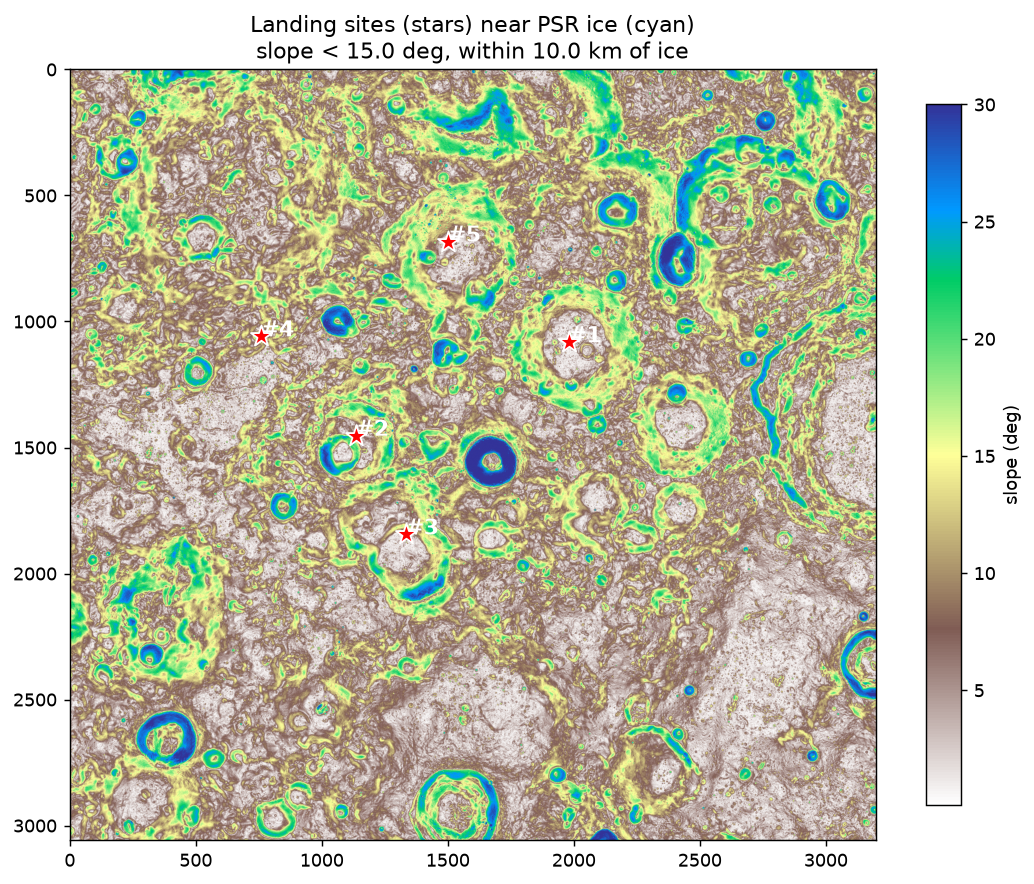
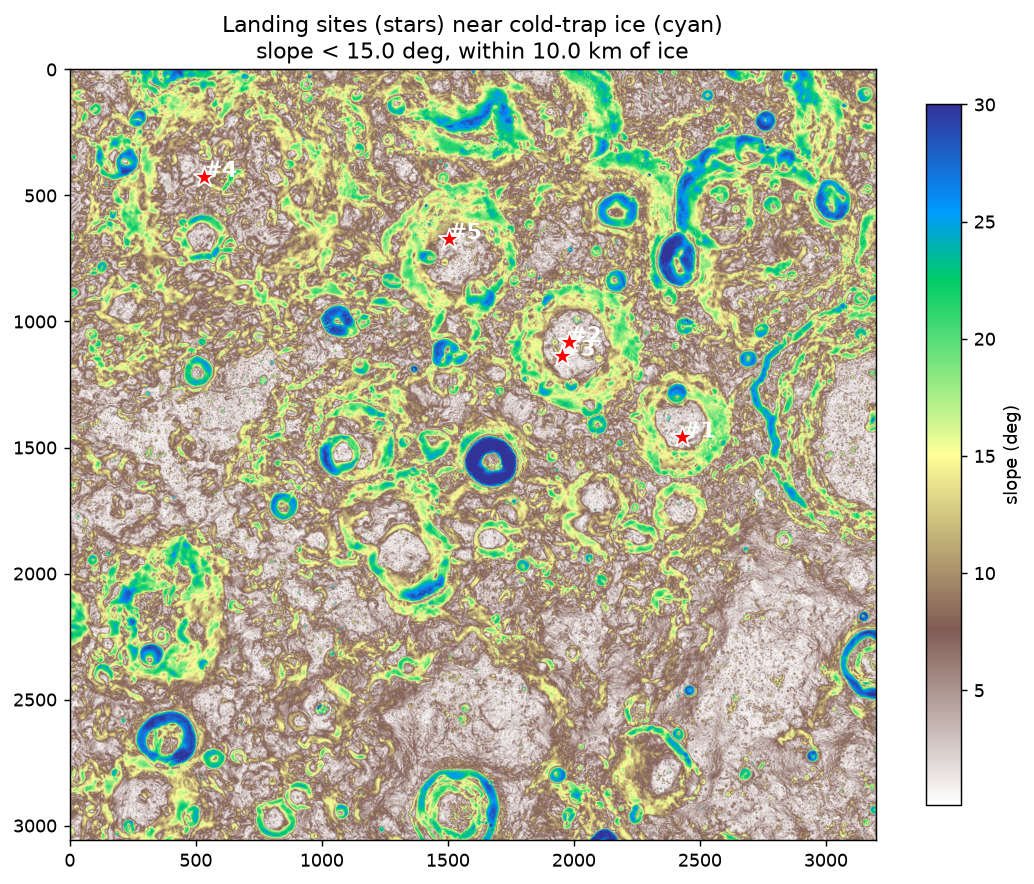
Landing v2: sites cluster near validated ice craters (Site 1 near F3, Sites 2-3 near S1)

diff --git a/src/landing_site.py b/src/landing_site.py
@@ -1,16 +1,7 @@
 # ============================================================
-# LunaVault — Landing Site Selection (Official Step 4)
-# MEMORY-SAFE version: works on a downsampled grid to avoid crashes.
-# ============================================================
-# Finds safe, flat terrain near PSR-restricted ice deposits.
-# All inputs reprojected onto the (downsampled) ice grid so they align.
-# Inputs:
-#   data/processed/ice_in_psr.tif        (cold-trap ice pixels)
-#   data/raw/dtm/LDEM_80S_80MPP_ADJ.TIF  (elevation, Moon-2015)
-#   data/raw/dtm/LDSM_80S_80MPP_ADJ.TIF  (slope deg, Moon-2015)
-# Outputs:
-#   outputs/figures/06_landing_sites.png
-#   prints top 5 candidate landing sites
+# LunaVault — Landing Site Selection (Official Step 4) v2
+# Uses corrected CPR-in-PSR ice mask (validated vs paper craters).
+# MEMORY-SAFE: works on a downsampled grid to avoid crashes.
 # ============================================================
 import os
 import numpy as np
@@ -29,15 +20,15 @@ MAX_SLOPE_DEG   = 15.0    # lander tip-over limit
 MAX_ICE_DIST_KM = 10.0    # rover lands within 10 km of ice
 DOWNSAMPLE      = 4       # process at 4x coarser res to save memory
 
+ICE_MASK = "data/processed/ice_cpr_psr.tif"   # corrected detection
+
 # ============================================================
 # 1. Load ice mask DOWNSAMPLED (defines target grid)
 # ============================================================
-with rasterio.open("data/processed/ice_in_psr.tif") as src:
+with rasterio.open(ICE_MASK) as src:
     H0, W0 = src.height, src.width
     H, W = H0 // DOWNSAMPLE, W0 // DOWNSAMPLE
-    # read at reduced resolution
-    # build the downsampled transform
-    ice = src.read(1, out_shape=(H, W), resampling=RS.nearest)  # keep ice presence
+    ice = src.read(1, out_shape=(H, W), resampling=RS.nearest)
     ice_transform = src.transform * src.transform.scale(W0 / W, H0 / H)
     ice_crs = src.crs
     px_m = abs(ice_transform.a)
@@ -50,8 +41,9 @@ print(f"Ice pixels (downsampled): {int(ice_present.sum())}")
 # 2. Reproject DEM + slope onto the downsampled ice grid
 # ============================================================
 def reproject_to_grid(path):
+    """Reproject the raster at `path` onto the downsampled ice grid."""
     out = np.full((H, W), np.nan, dtype=np.float32)
-    with rasterio.open(path) as src:
+    with rasterio.open(path) as src:          # FIXED: opens the given path
         reproject(
             source=rasterio.band(src, 1),
             destination=out,
@@ -118,13 +110,13 @@ for i in range(5):
     if work[r, c] <= 0:
         break
     lat, lon = pixel_to_latlon(r, c)
-    sites.append((i+1, r, c, lat, lon, float(score[r,c]),
-                  float(slope[r,c]), float(dist_km[r,c])))
+    sites.append((i+1, r, c, lat, lon, float(score[r, c]),
+                  float(slope[r, c]), float(dist_km[r, c])))
     print(f"  Site {i+1}: lat {lat:.2f}, lon {lon:.2f} | "
           f"score {score[r,c]:.3f} | slope {slope[r,c]:.1f} deg | "
           f"{dist_km[r,c]:.1f} km to ice")
     rad = 15
-    work[max(0,r-rad):r+rad, max(0,c-rad):c+rad] = 0
+    work[max(0, r-rad):r+rad, max(0, c-rad):c+rad] = 0
 
 if not sites:
     print("  No valid sites found (try relaxing thresholds).")
@@ -140,7 +132,7 @@ for site in sites:
     _, r, c, lat, lon, sc, sl, di = site
     plt.scatter(c, r, c="red", s=150, marker="*", edgecolors="white", zorder=5)
     plt.annotate(f"#{site[0]}", (c, r), color="white", fontsize=12, weight="bold")
-plt.title(f"Landing sites (stars) near PSR ice (cyan)\n"
+plt.title(f"Landing sites (stars) near cold-trap ice (cyan)\n"
           f"slope < {MAX_SLOPE_DEG} deg, within {MAX_ICE_DIST_KM} km of ice")
 plt.savefig("outputs/figures/06_landing_sites.png", dpi=130, bbox_inches="tight")
 print("\nSaved: outputs/figures/06_landing_sites.png")
